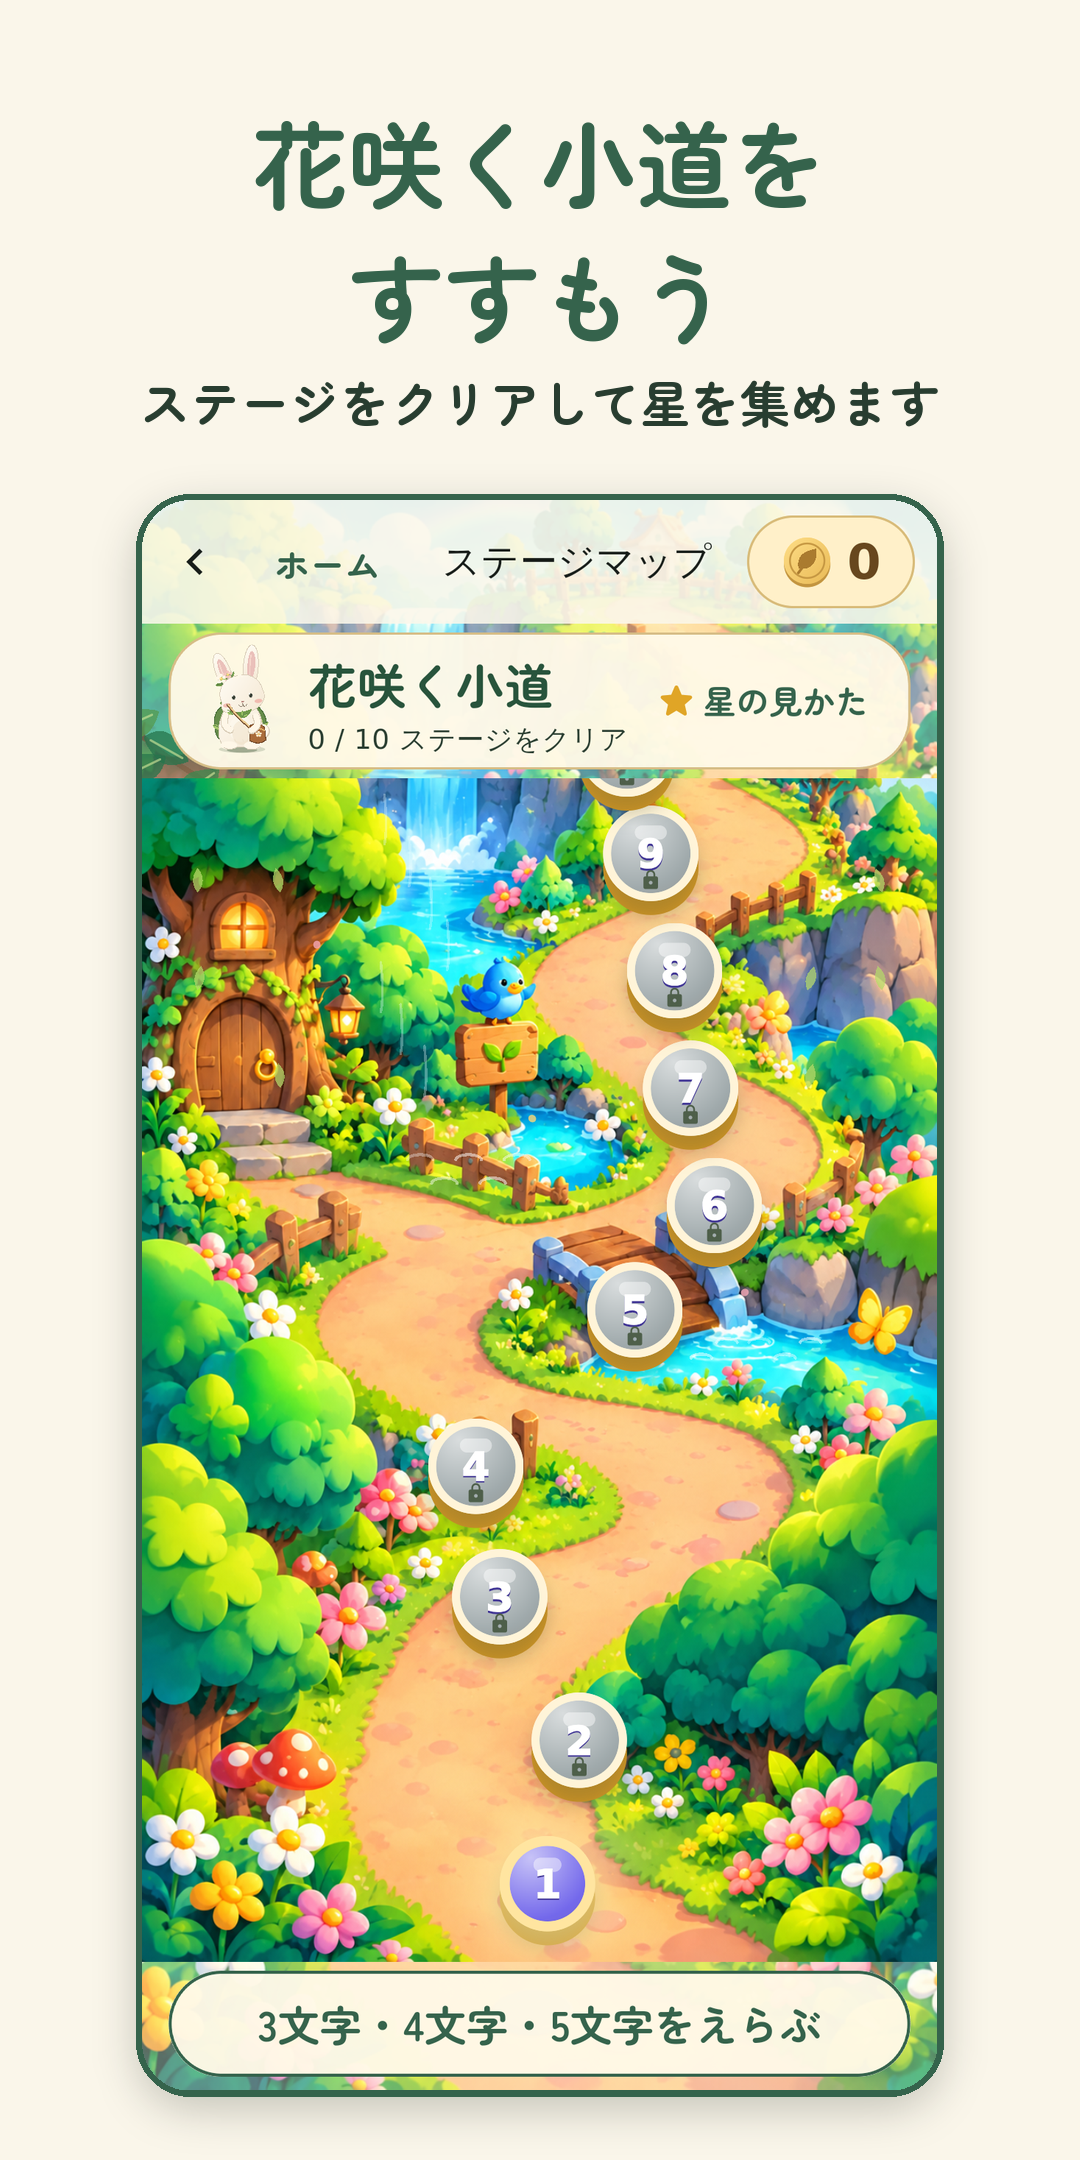
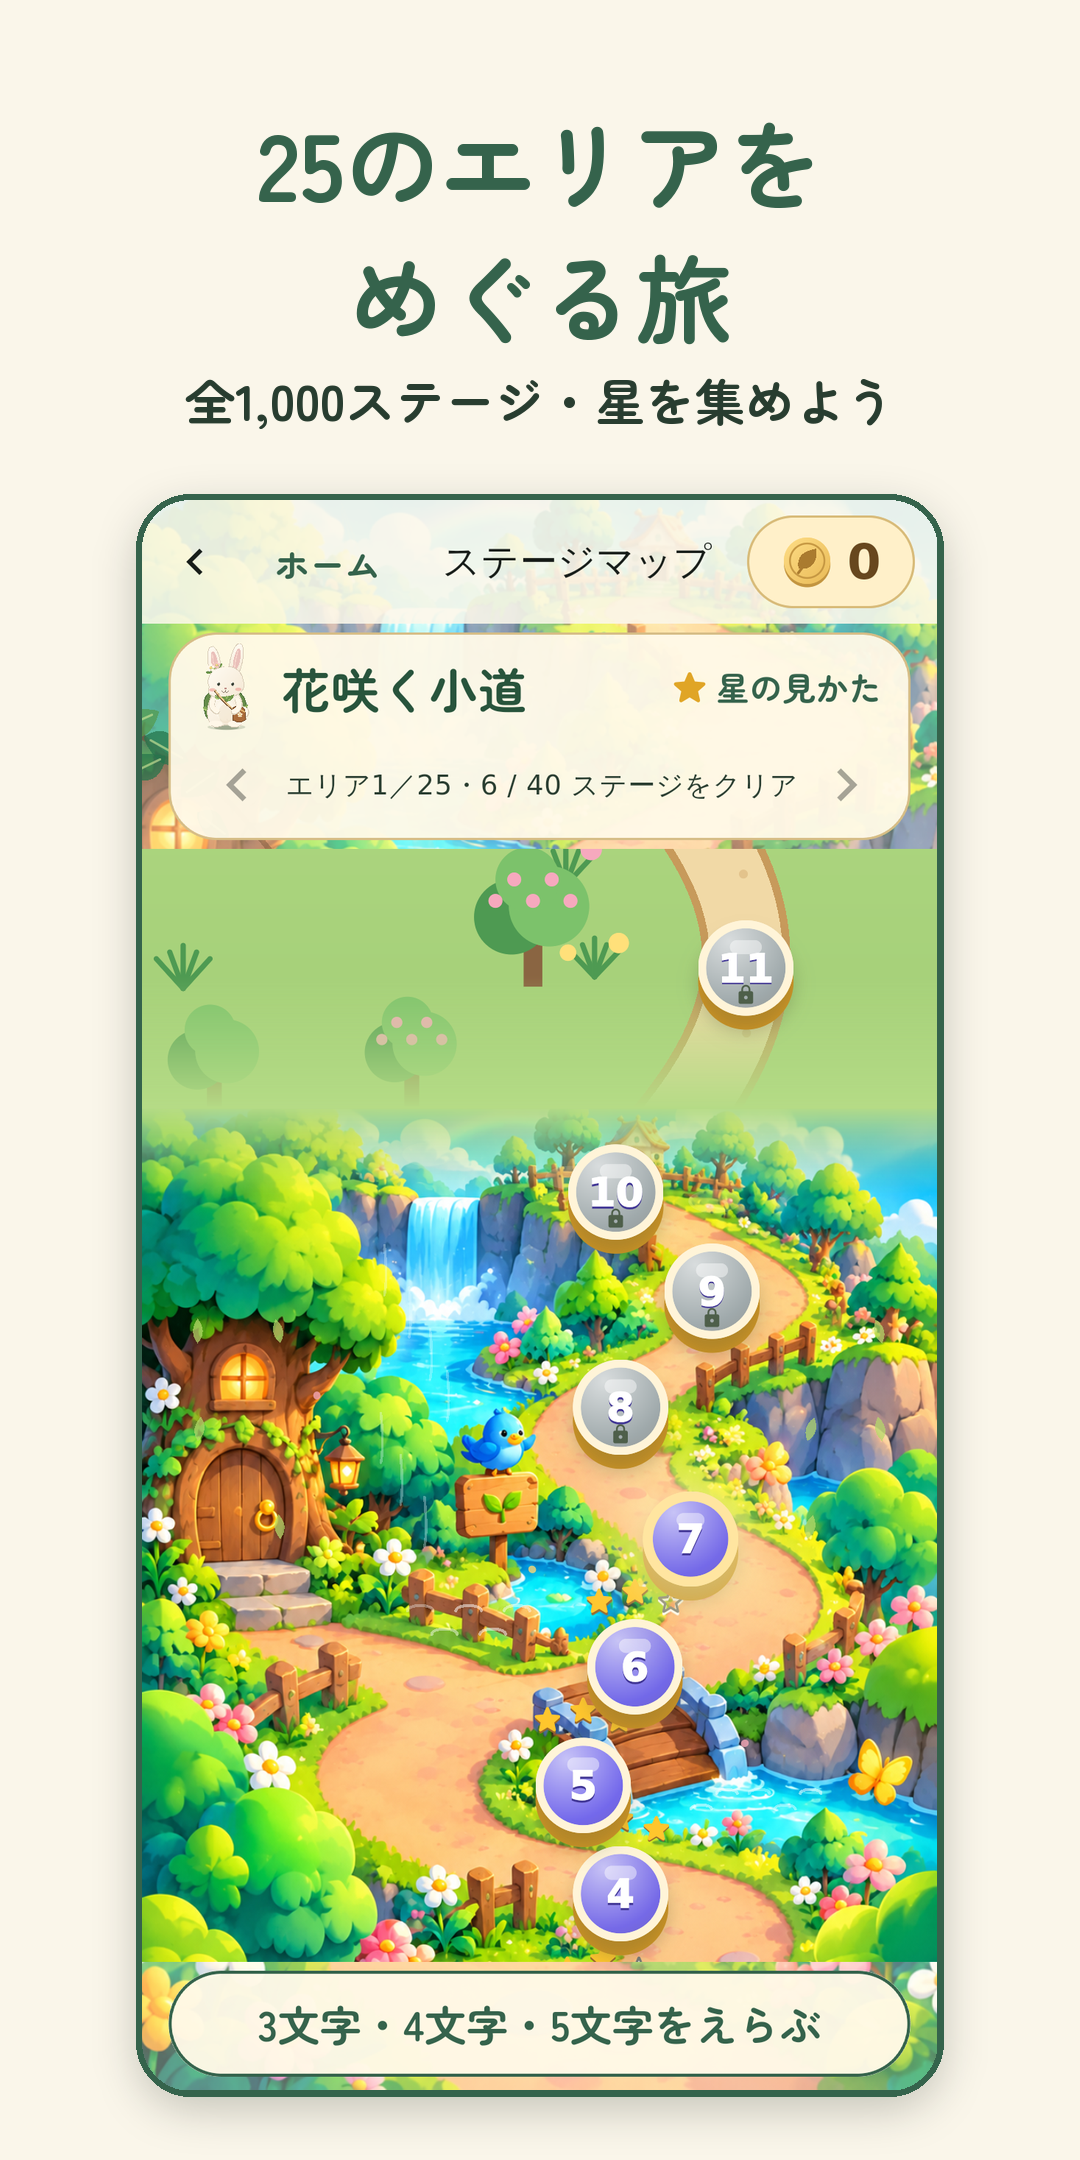
Retake the stage map store screenshot for 1,000 stages; record AAB
The map screenshot now shows the area header and the road continuing
past stage 10, captioned 25のエリアをめぐる旅. HANDOVER.md records the
closed-testing bundle rebuilt from c2fd029 (v1.0.0, versionCode 1,
ad-free, same upload key).

Claude-Session: https://claude.ai/code/session_018kCAxEKQjBiSm9vDDv11JS

diff --git a/tool/store_assets.py b/tool/store_assets.py
@@ -31,7 +31,7 @@ SCREENS = [
     ("win", "正解すると\n森が育つ", "毎日すこしずつ、にぎやかに"),
     ("modes", "3・4・5文字から\nえらべる", "全1,000問・何度でもあそべます"),
     ("home", "時間制限なし\n自分のペースで", "1日1問の「今日のことば」も"),
-    ("map", "花咲く小道を\nすすもう", "ステージをクリアして星を集めます"),
+    ("map", "25のエリアを\nめぐる旅", "全1,000ステージ・星を集めよう"),
 ]
 
 

diff --git a/HANDOVER.md b/HANDOVER.md
@@ -49,10 +49,10 @@
 
 ### 署名済みAAB（1回目・広告なし版）
 
-- ファイル: `build/app/outputs/bundle/release/app-release.aab`（84.6MB）。クロの作業環境は消えるため、しゅん にチャットで送付済み。手元の保存先を正とする。
-- ビルド日時: **2026-11-27 13:12 UTC（22:12 JST）**（作り直し。11:31 UTC に作った古いAABは Play 未提出のまま破棄し、この版に置き換え）
+- ファイル: `build/app/outputs/bundle/release/app-release.aab`（84.9MB）。クロの作業環境は消えるため、しゅん にチャットで送付済み。手元の保存先を正とする。
+- ビルド日時: **2026-11-28 01:46 UTC（10:46 JST）**（クローズドテスト用に作り直し。それ以前のAAB（2026-11-27 11:31 / 13:12 UTC）は Play 未提出のまま破棄し、この版に置き換え）
 - バージョン: 1.0.0（versionCode 1）。applicationId `jp.amuse.kotobanomori`
-- 元にしたコミット: main `ec52e85`（Flutter 3.47.7）。ホーム画面のボタン名の改行修正・ステージマップのノード位置修正（`7080baf`）まで入り。ビルド前に `flutter analyze` 問題なし・`flutter test` 全137件成功を確認。
+- 元にしたコミット: main `c2fd029`（Flutter 3.47.7。ビルド時の main `8852d26` は HANDOVER.md の変更のみで、アプリのコードは `c2fd029` と同一）。単語1,000語・ステージ1,000（25エリア・エリアごとの道の形・特殊ワールド8つ、背景は仮の風景）まで入り。ビルド前に `flutter analyze` 問題なし・`flutter test` 全150件成功を確認。
 - 広告: なし（`KOTOBA_RELEASE_WITHOUT_ADS=true` でビルド。リリース版は広告ユニットID未設定のため広告を読み込まない）。AdMob の本番ID取得後に、広告ありで作り直す。
 - 署名確認済み（jarsigner で verified）。証明書 SHA-256: `DF:E0:36:15:00:DE:6C:91:F6:1F:9C:8B:13:A5:5C:6F:66:71:7F:4D:AA:51:93:E8:B4:1A:EF:0B:84:4B:66:A4`
 
@@ -64,14 +64,14 @@
 - デバッグ署名のため Play には上げられない（実機テスト専用）。インストール時に「提供元不明のアプリ」の許可が必要。広告はテスト広告。
 - 内容: 単語1,000語、ステージ1,000（25エリア・エリアごとの道の形・特殊ワールド8つ、背景は仮の風景）、文字数をえらぶ画面の改行修正まで入り。
 - 以前のデバッグAPK（2026-11-27 13:06 UTC、`0a45a46`）はこの版で置き換え。
-- 注意: 署名済みAAB（13:12 UTC、`ec52e85`）は単語1,000語化・ステージ拡充より前。Play に出す前に作り直しが必要。
+- 署名済みAAB（2026-11-28 01:46 UTC）はこのAPKと同じコード（`c2fd029`）で作り直し済み。
 
 ### Play 掲載用素材（2026-11-27 クロ作成）
 
 - 置き場所: `store/play/`（一覧と作り直し方は `store/play/README.md`）
   - アイコン `store/play/icon-512.png`（512×512）
   - フィーチャーグラフィック `store/play/feature-1024x500.png`（1024×500）
-  - スクリーンショット5枚 `store/play/screenshots/01-puzzle.png`〜`05-map.png`（1080×2160 縦長。Play の上限 2:1 に合わせた）
+  - スクリーンショット5枚 `store/play/screenshots/01-puzzle.png`〜`05-map.png`（1080×2160 縦長。Play の上限 2:1 に合わせた）。`05-map.png` は 2026-11-28 に1,000ステージ版（エリア見出し付き）で撮り直し、説明文を「25のエリアをめぐる旅／全1,000ステージ・星を集めよう」に変更
 - 画面部分は実際のアプリを Galaxy 相当（360dp 幅・3倍）で撮影。説明文は大きな丸ゴシックで、アプリにある機能だけを書いた。
 - 作り直しは `tool/store_assets.py`（画像合成）と `tool/store_capture/`（撮影用）。
 - ホーム画面のボタン名の改行崩れを修正（2026-11-27）: 以前は「あそびか／た」「ことばの招／待状」と言葉の途中で改行され、「大きめ」では「今日のこ…」と省略されていた。1行に入るときは1行、入らないときは「わたしの／記録」「ことばの／招待状」「あそび／かた」のように言葉の切れ目でだけ改行し、それでも入らなければ縮めて表示する（省略しない）。「今日の目標」も「・」の位置で改行。テスト追加（幅320/360 × 標準/大きめ）、全137件成功。直したホーム画面をストア用スクショ 04-home.png に追加。

diff --git a/store/play/README.md b/store/play/README.md
@@ -8,7 +8,7 @@
 | `screenshots/02-win.png` | 1080×2160 PNG | 2「正解すると森が育つ」 |
 | `screenshots/03-modes.png` | 1080×2160 PNG | 3「3・4・5文字からえらべる」（全1,000問） |
 | `screenshots/04-home.png` | 1080×2160 PNG | 4「時間制限なし 自分のペースで」（文字サイズ「大きめ」で撮影） |
-| `screenshots/05-map.png` | 1080×2160 PNG | 5「花咲く小道をすすもう」 |
+| `screenshots/05-map.png` | 1080×2160 PNG | 5「25のエリアをめぐる旅」（1,000ステージ版のステージマップ） |
 
 - スクリーンショットは 1080×2160（縦長、9:18）。Galaxy は 19.5:9 だが、Play は縦横比 2:1 までしか受け付けないため、その上限に合わせた。
 - 画面部分は、実際のアプリを 3倍スケールで動かして撮ったもの（Galaxy の 360dp 幅と同じレイアウト）。上の説明文は、アプリにある機能だけを書いている。
